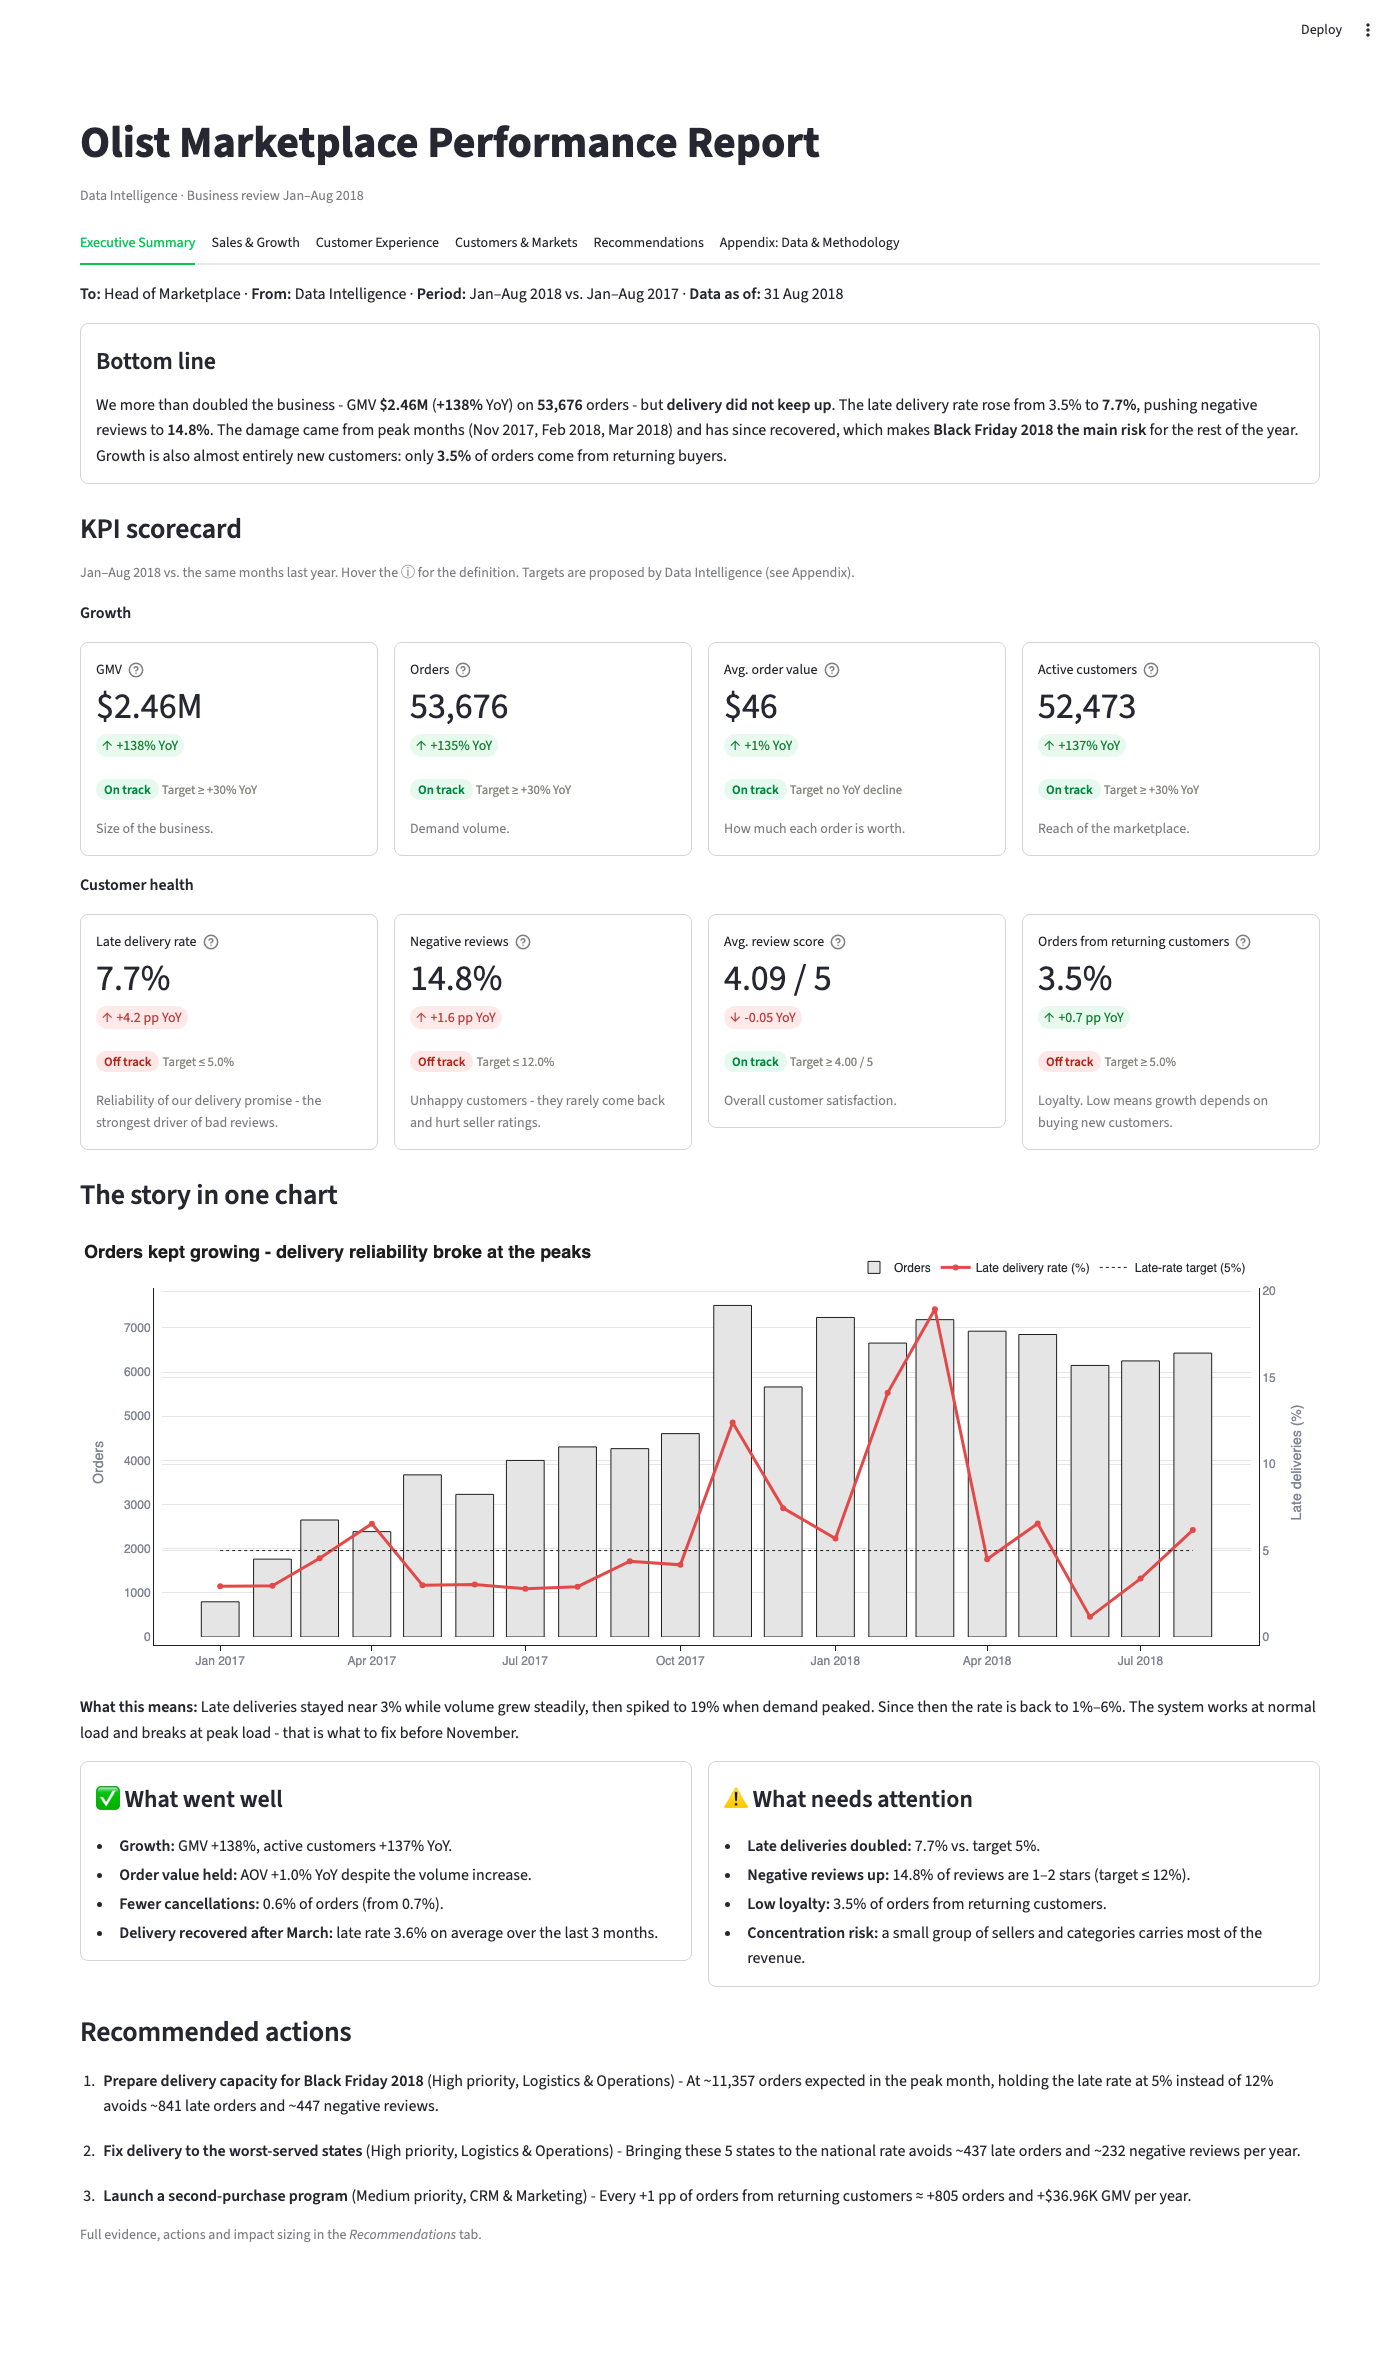
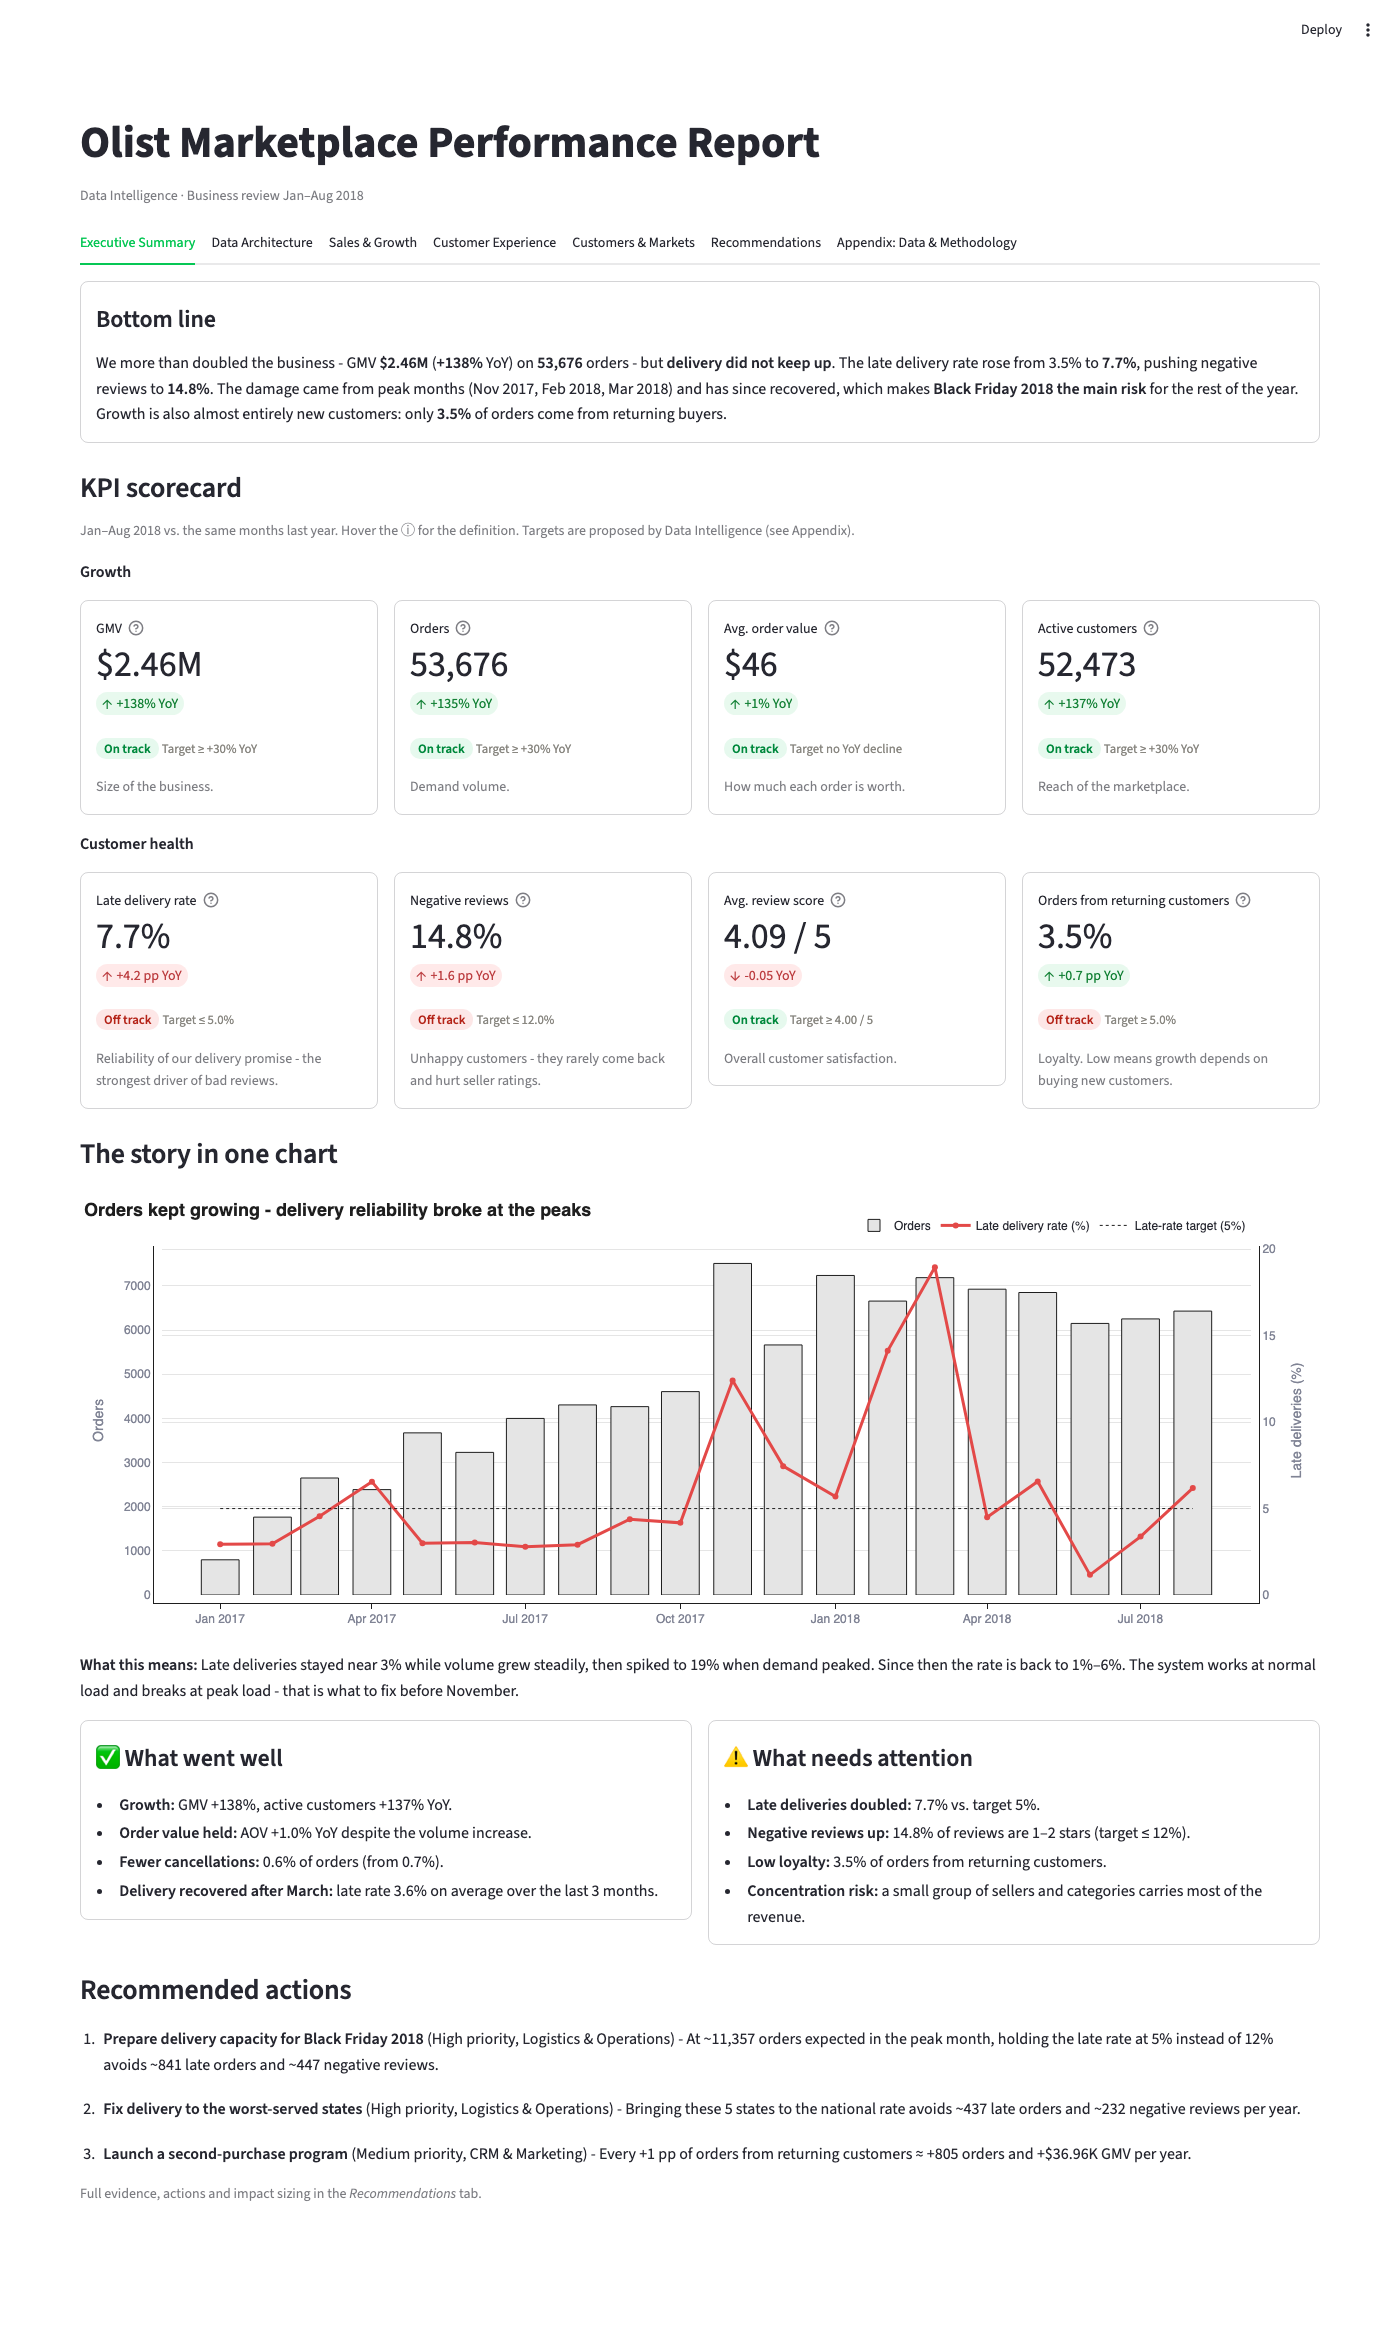
Add Data Architecture tab

diff --git a/src/sections/schema.py b/src/sections/schema.py
@@ -1,13 +1,14 @@
 import streamlit as st
 
 from src.data_loader import load_raw
-from src.schema import build_dot, relationship_stats, table_catalog
+from src.schema import TABLES, build_dot, build_flow_dot, column_profile, relationship_stats, table_catalog
 from src.theme import key_findings, section_header
 
 
 def render() -> None:
     section_header(
-        "What data do we have, what does one row mean in each table, and how do the tables connect?",
+        "Where do the numbers in this report come from, what does the raw data look like, and how do the "
+        "tables connect?",
         "Profiled all 9 source CSVs, declared primary/foreign keys, then measured every foreign key "
         "against its parent table (match rate, coverage, and fan-out).",
     )
@@ -15,7 +16,38 @@ def render() -> None:
     catalog = table_catalog()
     rels = relationship_stats().set_index("Child → Parent")
 
-    st.subheader("Entity-relationship diagram")
+    st.subheader("Data flow")
+    st.caption("From the raw files to this report. Every step is code, so the whole report rebuilds from the "
+               "CSVs in one run.")
+    st.graphviz_chart(build_flow_dot(), width="stretch")
+
+    st.subheader("Raw data")
+    st.caption("The source files exactly as delivered - pick a table to see its first rows and a profile of "
+               "every column.")
+    name = st.selectbox(
+        "Table",
+        list(TABLES),
+        format_func=lambda n: f"{n} - {TABLES[n]['desc']}",
+    )
+    row = catalog.set_index("Table").loc[name]
+    col1, col2, col3, col4 = st.columns(4)
+    col1.metric("Rows", f"{row['Rows']:,}")
+    col2.metric("Columns", row["Columns"])
+    col3.metric("File size", f"{row['Size (MB)']} MB")
+    col4.metric("Role", row["Role"])
+    st.markdown(f"**Grain:** {row['Grain']} · **Primary key:** `{row['Primary key']}`")
+    st.dataframe(load_raw(name).head(10), width="stretch", hide_index=True)
+    st.dataframe(
+        column_profile(name),
+        width="stretch",
+        hide_index=True,
+        column_config={
+            "Non-null": st.column_config.ProgressColumn(format="percent", min_value=0, max_value=1),
+            "Distinct values": st.column_config.NumberColumn(format="localized"),
+        },
+    )
+
+    st.subheader("Data schema (entity-relationship diagram)")
     st.caption("Dark green = fact tables (events), light green = dimensions, grey = lookups. "
                "Crow's foot marks the 'many' side of each relationship.")
     st.graphviz_chart(build_dot(), width="stretch")
@@ -53,7 +85,7 @@ def render() -> None:
             f"(star-like model); geolocation alone is {geo.shape[0] / catalog['Rows'].sum():.0%} of all rows.",
             f"**orders → order_items is 1:N** - {(items_per_order > 1).mean():.1%} of orders have more than "
             f"one item (up to {int(item_fk['Max children per key'])}). Any order-level amount joined onto items "
-            "gets repeated: this is the grain trap examined in *Cleaning & Modeling*.",
+            "gets repeated: this is the grain trap fixed in *Appendix → Cleaning & modeling*.",
             f"**`customer_id` is not a customer.** It is issued per order ({customers['customer_id'].nunique():,} ids) - "
             f"the real person is `customer_unique_id` ({customers['customer_unique_id'].nunique():,}). "
             "Repeat-purchase analysis must use the latter.",

diff --git a/src/schema.py b/src/schema.py
@@ -1,5 +1,7 @@
 """Metadata for the Olist relational model: tables, keys, and relationships."""
 
+import html
+
 import pandas as pd
 import streamlit as st
 
@@ -114,4 +116,61 @@ def build_dot() -> str:
         edge [dir=both, color="{NEUTRAL_GREY}", fontname="Helvetica", fontsize=10, fontcolor="{INK}"];
         {nodes}
         {edges}
+    }}"""
+
+
+@st.cache_data
+def column_profile(name: str) -> pd.DataFrame:
+    """One row per column of a raw table: type, completeness, cardinality, example."""
+    df = load_raw(name)
+    meta = TABLES[name]
+    fks = {ccol for child, ccol, *_ in RELATIONSHIPS if child == name}
+    rows = []
+    for col in df.columns:
+        s = df[col]
+        non_null = s.dropna()
+        rows.append(
+            {
+                "Column": col,
+                "Key": "PK" if col in meta["pk"] else ("FK" if col in fks else ""),
+                "Type": str(s.dtype).replace("object", "text"),
+                "Non-null": s.notna().mean(),
+                "Distinct values": s.nunique(),
+                "Example": str(non_null.iloc[0]) if len(non_null) else "",
+            }
+        )
+    return pd.DataFrame(rows)
+
+
+# Stages of the pipeline, left to right: (node id, label, detail lines)
+_FLOW = [
+    ("raw", "Raw data", ["9 CSV files", "Olist public dataset", "{rows} rows"]),
+    ("clean", "Clean & conform", ["Parse dates", "Dedupe reviews", "Translate categories", "Collapse GPS to 1 point / zip"]),
+    ("model", "Analysis model", ["Order fact: 1 row / order", "Item fact: 1 row / item", "Geo lookup: 1 row / zip"]),
+    ("checks", "Quality gate", ["{checks} automated checks", "Payment reconciliation", "No-fan-out assertion"]),
+    ("report", "Report", ["KPI scorecard", "Findings & charts", "Recommendations"]),
+]
+
+
+def build_flow_dot() -> str:
+    """Graphviz DOT source for the end-to-end data flow."""
+    from src.quality import run_checks
+
+    stats = dict(rows=f"{table_catalog()['Rows'].sum() / 1e6:.2f}M", checks=len(run_checks()))
+    nodes = []
+    for node_id, title, lines in _FLOW:
+        # Graphviz HTML labels need XML escaping ("&" would drop the whole node).
+        title = html.escape(title)
+        body = "".join(f'<tr><td align="left">{html.escape(line.format(**stats))}</td></tr>' for line in lines)
+        nodes.append(
+            f'"{node_id}" [label=<<table border="0" cellborder="1" cellspacing="0" cellpadding="5">'
+            f'<tr><td bgcolor="{BRAND_COLOR}"><b>{title}</b></td></tr>{body}</table>>];'
+        )
+    edges = " -> ".join(f'"{node_id}"' for node_id, *_ in _FLOW)
+    return f"""digraph flow {{
+        rankdir=LR; bgcolor="transparent";
+        node [shape=plaintext, fontname="Helvetica", fontsize=11, fontcolor="{INK}"];
+        edge [color="{NEUTRAL_GREY}", penwidth=1.5];
+        {' '.join(nodes)}
+        {edges};
     }}"""

diff --git a/src/sections/appendix.py b/src/sections/appendix.py
@@ -1,7 +1,7 @@
 import streamlit as st
 
 from src.kpis import KPIS, fmt_target, fmt_value, reporting_periods, scorecard
-from src.sections import modeling, quality, schema
+from src.sections import modeling, quality
 
 
 def _kpi_definitions() -> None:
@@ -33,7 +33,7 @@ def _kpi_definitions() -> None:
 
 def render() -> None:
     st.markdown("How the numbers in this report were built, and why they can be trusted.")
-    tabs = st.tabs(["KPI definitions & targets", "Data schema", "Data quality", "Cleaning & modeling"])
-    for tab, fn in zip(tabs, [_kpi_definitions, schema.render, quality.render, modeling.render]):
+    tabs = st.tabs(["KPI definitions & targets", "Data quality", "Cleaning & modeling"])
+    for tab, fn in zip(tabs, [_kpi_definitions, quality.render, modeling.render]):
         with tab:
             fn()

diff --git a/app.py b/app.py
@@ -2,7 +2,7 @@ import streamlit as st
 
 from src.data_loader import load_item_level, load_order_level
 from src.kpis import reporting_periods
-from src.sections import appendix, customers, delivery, recommendations, sales, summary
+from src.sections import appendix, customers, delivery, recommendations, sales, schema, summary
 from src.theme import configure_page
 
 configure_page("Olist Marketplace Performance Report")
@@ -15,6 +15,7 @@ load_item_level()
 
 SECTIONS = [
     ("Executive Summary", summary),
+    ("Data Architecture", schema),
     ("Sales & Growth", sales),
     ("Customer Experience", delivery),
     ("Customers & Markets", customers),

diff --git a/src/sections/summary.py b/src/sections/summary.py
@@ -35,13 +35,6 @@ def render() -> None:
     crisis = monthly[monthly["late"] > 2 * KPI_BY_KEY["late"].target]
     last3 = monthly.tail(3)
 
-    st.markdown(
-        f"""
-**To:** Head of Marketplace · **From:** Data Intelligence · **Period:** {periods['label']} vs. {periods['prior_label']}
-· **Data as of:** {periods['as_of']:%d %b %Y}
-"""
-    )
-
     with st.container(border=True):
         st.markdown("#### Bottom line")
         st.markdown(

diff --git a/README.md b/README.md
@@ -15,19 +15,21 @@ numbers, and recommended actions with sized impact.
 
 ---
 
-| Executive Summary | Sales & Growth | Customer Experience |
+| Executive Summary | Data Architecture | Customer Experience |
 |:---:|:---:|:---:|
-| ![Executive Summary](docs/img/preview-summary.png) | ![Sales & Growth](docs/img/preview-sales.png) | ![Customer Experience](docs/img/preview-experience.png) |
+| ![Executive Summary](docs/img/preview-summary.png) | ![Data Architecture](docs/img/preview-architecture.png) | ![Customer Experience](docs/img/preview-experience.png) |
 
 ## Features
 
 - Executive Summary: bottom line, KPI scorecard (YoY change + On track / Watch / Off track vs.
   target), what went well / what needs attention, top actions
+- Data Architecture: data flow from raw CSVs to report, raw data explorer (sample rows + column
+  profile per table), ER diagram, table catalog and foreign-key checks
 - Sales & Growth, Customer Experience, Customers & Markets: KPI cards, charts with a plain-language
   "what this means", and key findings
 - Recommendations: 5 actions with owner, priority, evidence and estimated impact
-- Appendix: KPI definitions & targets, ER diagram and table catalog, 17 automated data quality
-  checks, payment reconciliation and the cleansing log
+- Appendix: KPI definitions & targets, 17 automated data quality checks, payment reconciliation
+  and the cleansing log
 - Two fact tables with an explicit grain: order-level (1 row per order) and item-level
   (1 row per order item)
 - Fixed USD display conversion and a shared Plotly chart-styling system for a consistent look
